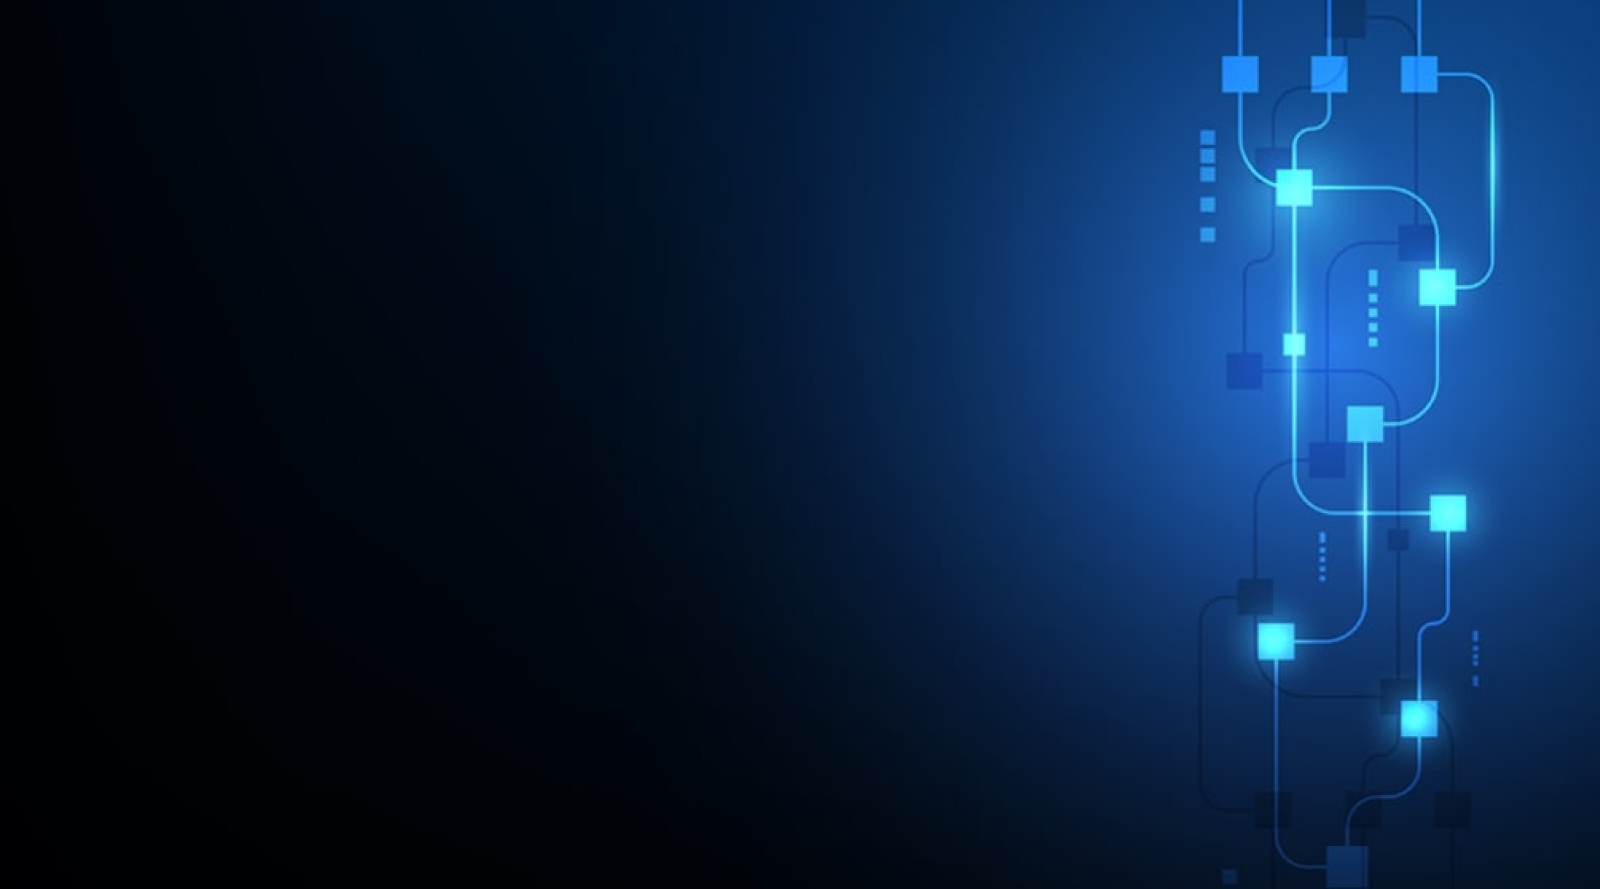
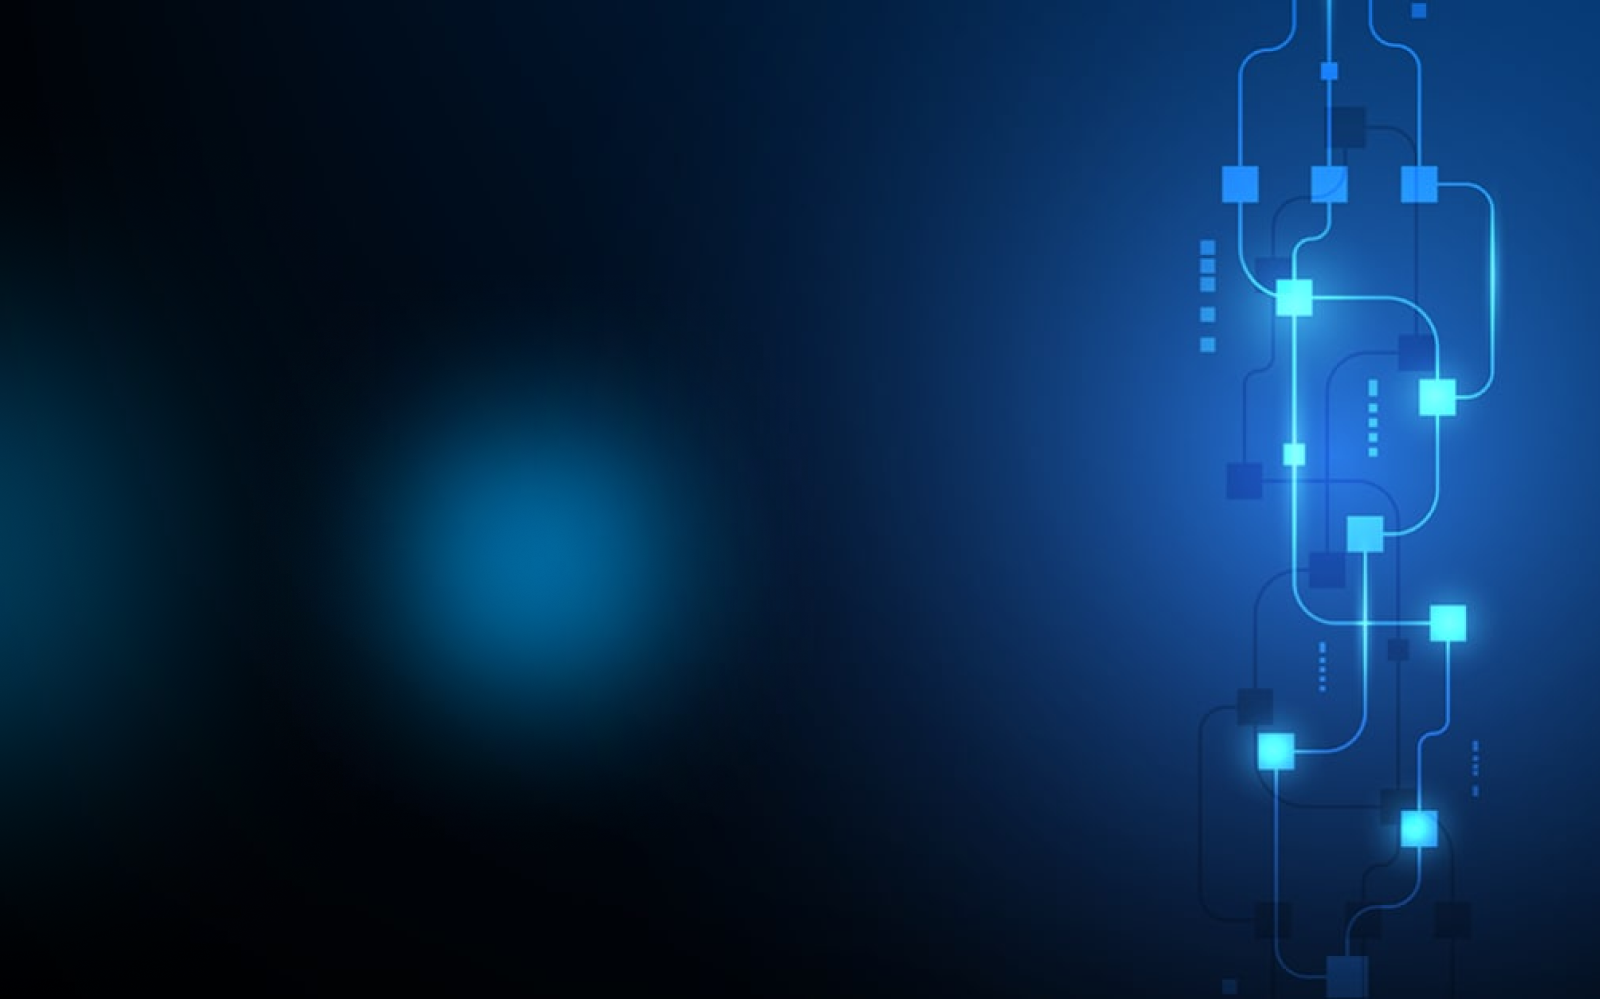
update landingpage

Changed region(s): [[0.75, 0.0, 0.9375, 0.9111], [0.1875, 0.3645, 0.4688, 0.7593], [0.0, 0.2733, 0.1562, 0.82]]

diff --git a/src/views/Dashboard/style.scss b/src/views/Dashboard/style.scss
@@ -13,10 +13,13 @@
     max-width: 100%;
     overflow: hidden;
     background-size: cover;
-    background-position: left;
+    background-position: right;
 
     @include respond(phone) {
       height: 250px;
+      background: url("../../assets/images/dashboard/bg1_mobile.png");
+      background-size: cover;
+      background-position: right;
     }
 
     &__content {
@@ -57,12 +60,22 @@
       height: 30%;
       background: #02050A;
       filter: blur(43px);
+
+      @include respond(phone) {
+        bottom: -30px;
+        filter: blur(21px);
+      }
     }
   }
 
   .content {
-    background: url("../../assets/images/dashboard/bg2.jpg");
+    background: url("../../assets/images/dashboard/bg2.png");
     background-size: cover;
+
+    @include respond(phone) {
+      background: url("../../assets/images/dashboard/bg2_mobile.png");
+      background-size: cover;
+    }
   }
 
   .protocol {
@@ -193,13 +206,15 @@
         padding: 0 2rem;
 
         button {
+          font-family: 'Space Grotesk';
           background: #FFFFFF;
           box-shadow: 0px 3.00353px 10.5123px rgba(0, 0, 0, 0.08);
           border-radius: 7.76964px;
           padding: 1.5rem 2rem;
           color: #000;
-          font-size: 2rem;
+          font-size: 1.8rem;
           font-weight: 500;
+          border: none;
         }
 
         .swap-icon {

diff --git a/src/views/Dashboard/index.tsx b/src/views/Dashboard/index.tsx
@@ -16,7 +16,7 @@ const features = [
   },
   {
     image: 'automated.png',
-    title: 'automated',
+    title: 'Automated',
     des: 'Safekeeping by market incentive.'
   },
   {
